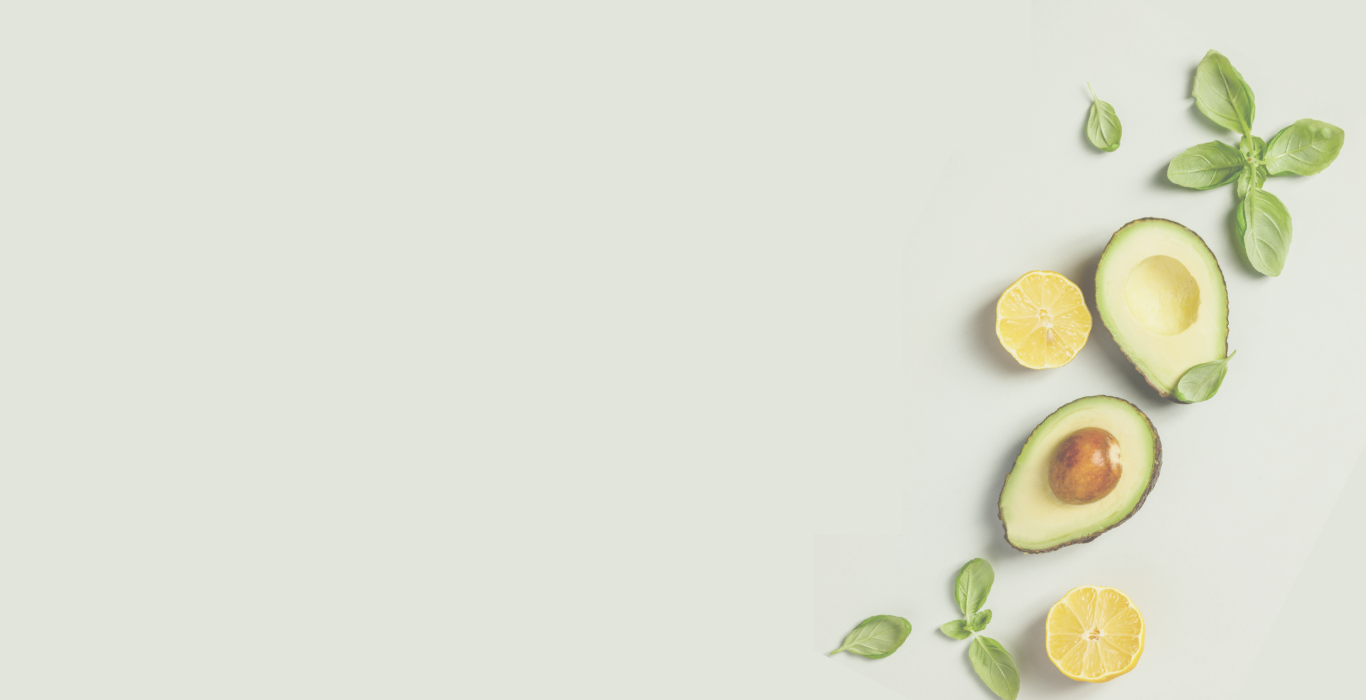
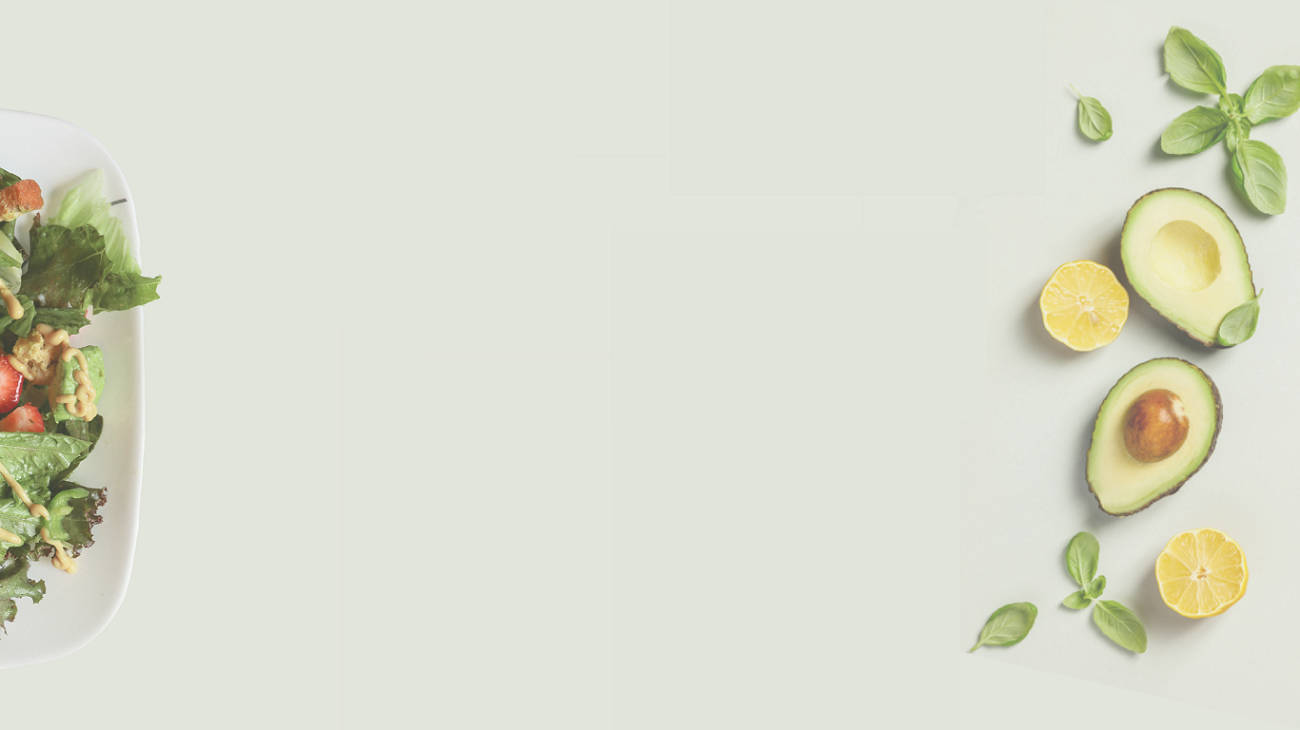
Back Front chnages
Back Front chnages

Changed region(s): [[0.6154, 0.03, 1.0, 1.0], [0.0, 0.21, 0.1231, 0.87]]

diff --git a/assets/css/custom.css b/assets/css/custom.css
@@ -87,7 +87,7 @@ input:checked ~ .checkmark{
     align-items: center;
     flex-wrap: wrap;
 }
-.plan-div, .plan-title-div{background-color: #fff;border-bottom: 1px solid #33333347;}
+.plan-div, .plan-title-div{background-color: #fff;border-bottom: 1px solid #33333347;margin: 0 15px;}
 .cm-title-01 {
     display: none;
     text-align: center;
@@ -432,6 +432,9 @@ canvas{
     padding: 5px 15px;
 }
 
+.meal-week-title {
+    margin: 2px 15px;
+}
 
 
 @media only screen and (max-width: 990px){
@@ -448,7 +451,7 @@ canvas{
     font-size: 17px;
   }
   .plan-div-col .col-md-3{
-    width: 50%;
+    /*width: 50%;*/
   }
   .plan-day h4{font-size: 24px;}
   .plan-title-div{display: none;}
@@ -480,5 +483,33 @@ canvas{
         display: block !important;
         text-align: center !important;
         padding: 20px 0;
+    }
+
+    .plan-details, .plan-details-title{display: none ;}
+    .meal-week-div{padding-top: 18px;text-align: center;}
+    .meal-week-title{margin: 0;text-align: center;}
+    .meal-week-title .page-heading h3{display: block;}
+
+
+    .content-body{padding: 0;}
+    .plan-div{background-color: transparent;margin: 0;padding-top: 0 !important;}
+    .plan-div .col-md-3{background-color: #fff;padding: 0;border-radius: 6px;}
+    .plan-div .card{
+        display: inline-block;
+        box-shadow: unset;
+        border: none;
+    }
+    .plan-div .card-img{width: 35%;float: left;max-height: 72px !important;margin: 10px 5px;}
+    .plan-div .card-img-overlay{
+        background: unset;
+        position: relative;
+        width: 60%;
+        float: left;
+        padding: 13px 10px;
+    }
+    .plan-div h5.card-title{margin-bottom: 0;color: #333 !important;font-size: 14px;}
+    .plan-div .card-text{color: #333 !important;}
+    .plan-div .cm-title-01 {
+        display: none;
     }
 }

diff --git a/assets/frontend/css/landing.css b/assets/frontend/css/landing.css
@@ -1,5 +1,5 @@
 body{background: #fff !important;}
-.cm-footer{background-color: #e5e7e0;padding: 30px 0;margin-top: -25px;}
+.cm-footer{background-color: #e2e5dc;padding: 30px 0;margin-top: -25px;}
 
 .gc-title{font-size: 27px;font-weight: 300;color: #000;line-height: 44px; margin-top: 25px;}
 .gc-content p, .gc-content tr td{font-size: 15px; line-height: 24px; color: #000;}
@@ -9474,7 +9474,7 @@ body {
     width: 100%;
     margin: 0!important;
     padding: 0!important;
-    background-position: 100% 0!important;
+    background-position: 100% 50%!important;
   }
 
   #landing.women {

diff --git a/application/views/frontend/quiz2/payment_success.php b/application/views/frontend/quiz2/payment_success.php
@@ -5,6 +5,8 @@
     <meta content="width=device-width,initial-scale=1,maximum-scale=1,user-scalable=0" name="viewport">
     <meta name="description" content="Keto Diet Simplified offers a new, educated approach to the famous Ketogenic diet. It combines all of its health and weight loss benefits in one, easy-to-use app and guides you through your personalized daily Keto meal plan the safest way possible.">
     <meta name="keywords" content="Keto diet">
+
+    <link rel="icon" type="image/png" href="<?= base_url('assets/frontend/images/favicon.jpg')?>" sizes="96x96">
     
     <link href="https://fonts.googleapis.com/css?family=Lato:400,700,900&display=swap&subset=latin-ext" rel="stylesheet">
     <title>Thank You - Keto Diet Simplified</title>
@@ -13,7 +15,11 @@
     <link rel="stylesheet" href="<?= base_url('assets/frontend/')?>js/libs/font-awesome/5.12.1/css/all.min.css" type="text/css">
 
     <style type="text/css">
-
+        .jumbotron{padding-top: 0;padding-bottom: 0;}
+        .jumbotron h1{padding-bottom: 0;font-size: 30px;line-height: 30px;}
+        .btn-primary{margin-top: 0;font-size: 18px;}
+        hr{margin: 0;}
+        .jumbotron p{font-size: 18px;}
     </style>
 </head>
 <body>
@@ -32,31 +38,30 @@
     </header>
 
 
-    <div class="container my-5">
+    <div class="container mt-1 mb-2">
 
         <!--row start -->
         <div class="row">
             <div class="col-md-12 ">
 
                 <div class="jumbotron text-center bg-white">
-                  <h1 class="display-3">Thanks for your order!</h1>
-
-                  <img src="<?= base_url('/assets/frontend/images/icons-2/check-animation.gif')?>" width="120">
-                  
-                  <p>
+                    
+                    <h1 class="display-3">Thanks for your order!</h1>
+                    <img src="<?= base_url('/assets/frontend/images/icons-2/check-animation.gif')?>" width="70">
+                    <p>
                       We are delighted that you have finally decided to start your weight loss journey with Keto Diet.
-                  </p>
-                  <p class="lead d-inline-block pb-4">
-                      <a class="btn btn-primary btn-sm" href="<?= base_url('')?>" role="button">Continue to Homepage</a>
-                  </p>
+                    </p>
+                    <p class="lead d-inline-block pb-4">
+                        <a class="btn btn-primary btn-sm" href="<?= base_url('')?>" role="button">Continue to Homepage</a>
+                    </p>
 
-                  <hr>
+                    <hr>
 
-                  <h1 class="display-3 pt-4">We have started to make your diet plan.</h1>
-                  <p>Our expert nutritionist will soon start making your personalised<br> 
-                  keto diet meal plan.</p>
-                  <img src="<?= base_url('/assets/frontend/images/chart-data-graph.gif')?>" width="300">
-                  <p><strong>We will send your diet within next <span style="color:#44d8b1;"><br>24 hours.</span></strong></p>
+                    <h1 class="display-3 pt-1">We have started to make your diet plan.</h1>
+                    <p>Our expert nutritionist will soon start making your personalised<br> 
+                    keto diet meal plan.</p>
+                    <img src="<?= base_url('/assets/frontend/images/chartgif.gif')?>" width="70">
+                    <p><strong>We will send your diet within next <span style="color:#44d8b1;"><br>24 hours.</span></strong></p>
 
 
                 </div>

diff --git a/application/views/panel/user_meal_plan.php b/application/views/panel/user_meal_plan.php
@@ -2,7 +2,7 @@
 <div class="content-body">
 
     <!-- Page Headings Start -->
-    <div class="row mb-10">
+    <div class="row mb-10 plan-details-title">
 
         <!-- Page Heading Start -->
         <div class="col-12 col-lg-auto ml-15 mr-15">
@@ -98,15 +98,15 @@
 
 
     <!-- Row Start -->
-    <div class="row">
+    <div class="row mb-20">
 
-        <div class="col-12 col-md-4 col-lg-auto ml-15 mr-15">
+        <div class="col-12 col-md-4 col-lg-auto  meal-week-title">
             <div class="page-heading">
                 <h3>Your Custom Meal Plan</h3>
             </div>
         </div>
 
-        <div class="col-12 col-md-8 col-lg-auto ml-15 mr-15">
+        <div class="col-12 col-md-8 col-lg-auto meal-week-div">
 
             <nav aria-label="Page navigation example" class="d-inline-block">
                 <ul class="pagination">
@@ -175,7 +175,7 @@
     </div>
   
 
-    <div class="row py-4 pl-3 pr-3  mb-2 plan-div-col">
+   <!--  <div class="row py-4 pl-3 pr-3  mb-2 plan-div-col">
         <div class="col-lg-12 col-md-12">
             <div class="row" >
 
@@ -204,7 +204,7 @@
                 ?>
             </div>
         </div>
-    </div>
+    </div> -->
       <div class="row plan-title-div pt-3">
                 <div class="col-md-1"></div>
 

diff --git a/application/controllers/Panel.php b/application/controllers/Panel.php
@@ -170,7 +170,7 @@ class Panel extends CI_Controller {
                             <a href="<?= base_url('panel/meal-recipe/' . $value->meal_id . '/' . clean($value->meal_name)) ?>">
                                 <h4 class="cm-title-01"></h4>
                                 <div class="card text-white">
-                                    <img src="<?= base_url('uploads') ?>/images/meals/<?= $value->meal_image ?>" class="card-img img-fluid" style="height: 250px !important;" alt="">
+                                    <img src="<?= base_url('uploads') ?>/images/meals/<?= $value->meal_image ?>" class="card-img img-fluid" style="height: 250px;" alt="">
                                     <div class="card-img-overlay">
                                         <h5 class="card-title text-white text-uppercase"><?= $value->meal_name ?></h5>
                                         <p class="card-text">Kcal: <?= $value->meal_kcal ?></p>

diff --git a/application/views/panel/meal_recipe.php b/application/views/panel/meal_recipe.php
@@ -66,7 +66,7 @@ if ($meals) {
                                         <label class="form-check">
                                             <input class="form-check-input" checked="" type="checkbox" value="">
                                             <span class="checkmark"></span>
-                                            <span class="form-check-label">&nbsp;&nbsp;&nbsp;&nbsp;&nbsp;<?= $value ?></span>
+                                            <span class="form-check-label"><?= $value ?></span>
                                         </label> <!-- form-check.// -->
                                         <?php
                                     }
